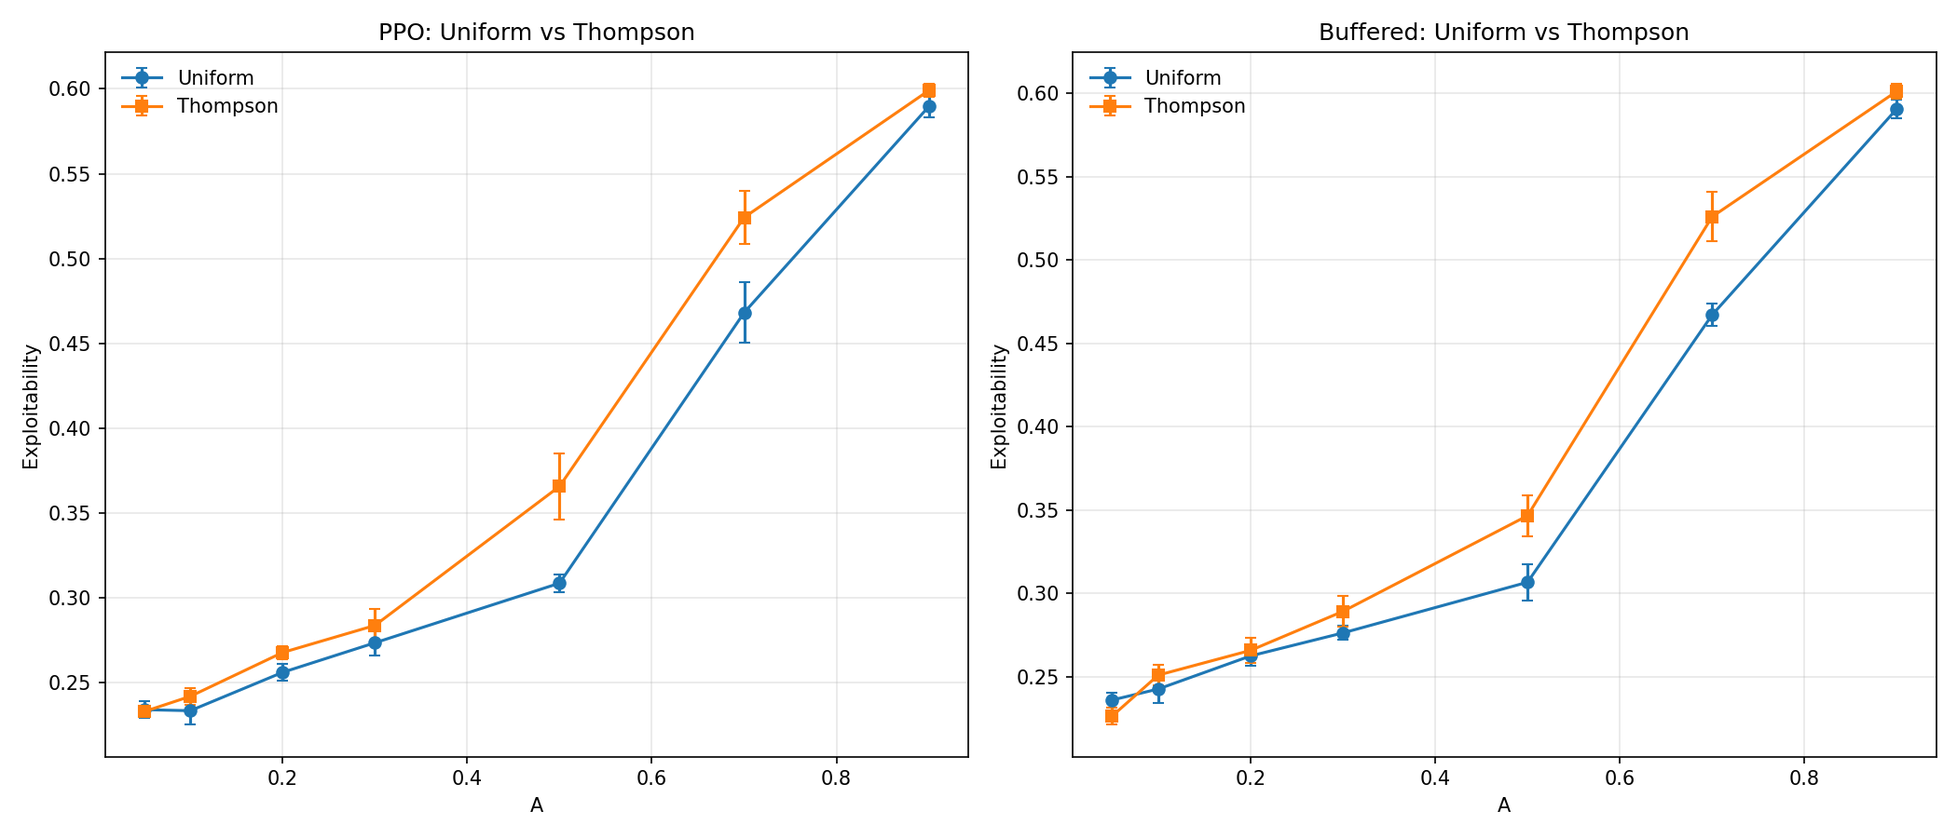
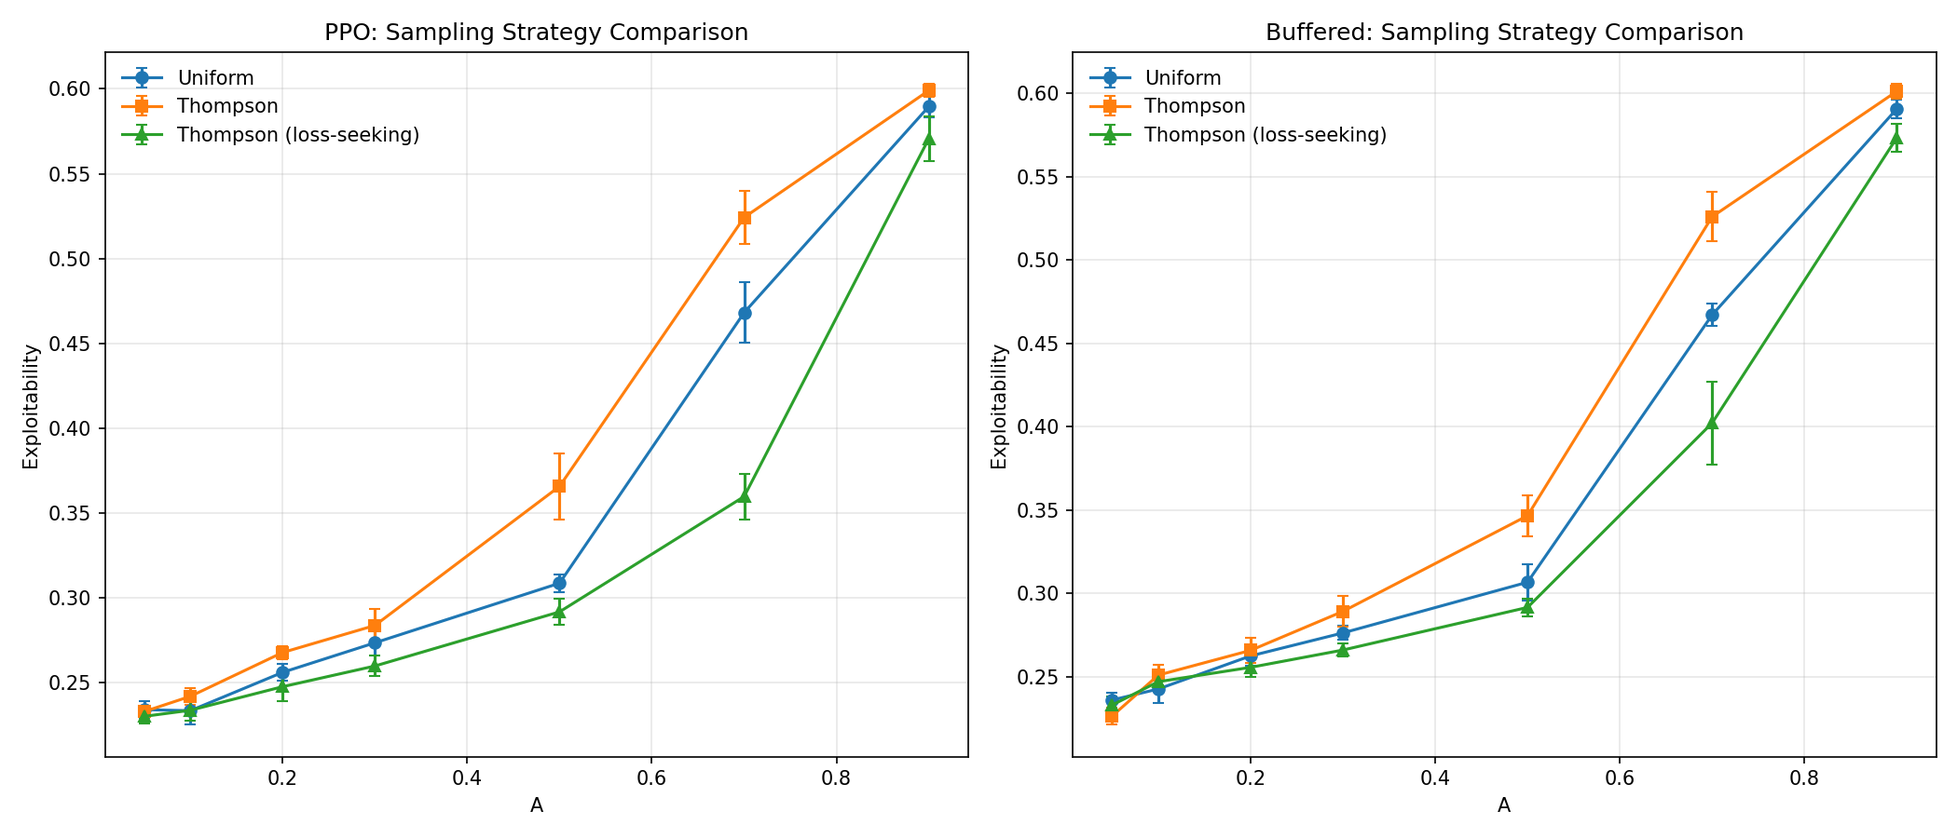
Add loss-seeking Thompson Sampling variant
Standard Thompson selects "competitive" opponents (close matches), which
is backwards in Kuhn Poker — it avoids the strong opponents that would
push toward Nash. Loss-seeking Thompson inverts the signal: success =
agent lost, so the zoo preferentially samples opponents that beat the
agent.

Results (500k games, 5 seeds): Thompson-Loss reduces exploitability by
up to 23% vs uniform at A=0.70 (PPO: 0.4682→0.3598), while standard
Thompson increases it by 12%. Still worse than self-play (A*=0 remains
optimal), but demonstrates that the selection signal matters.

diff --git a/analyze.py b/analyze.py
@@ -61,15 +61,14 @@ def get_final_exploitability(runs: dict) -> list:
 
 
 def parse_experiment_name(name: str):
-    """Parse algo, strategy, A value from experiment directory name."""
-    # Format: ppo_uniform_A0.50 or buffered_thompson_A0.90
-    parts = name.split("_")
-    if len(parts) >= 3:
-        algo = parts[0]
-        strategy = parts[1]
-        a_match = re.search(r"A([\d.]+)", name)
-        a_val = float(a_match.group(1)) if a_match else None
-        return algo, strategy, a_val
+    """Parse algo, strategy, A value from experiment directory name.
+
+    Format: {algo}_{strategy}_A{value}
+    e.g. ppo_uniform_A0.50, buffered_thompson_loss_A0.90
+    """
+    m = re.match(r"^(ppo|buffered)_(.+)_A([\d.]+)$", name)
+    if m:
+        return m.group(1), m.group(2), float(m.group(3))
     return None, None, None
 
 
@@ -114,13 +113,18 @@ def plot_a_curve(data: dict, output_dir: Path):
 
 
 def plot_thompson_comparison(data: dict, output_dir: Path):
-    """Plot uniform vs Thompson at each A value."""
+    """Plot uniform vs Thompson vs Thompson-Loss at each A value."""
     fig, axes = plt.subplots(1, 2, figsize=(14, 6))
+
+    strat_configs = [
+        ("uniform", "tab:blue", "o", "Uniform"),
+        ("thompson", "tab:orange", "s", "Thompson"),
+        ("thompson_loss", "tab:green", "^", "Thompson (loss-seeking)"),
+    ]
 
     for ax, algo, title in [(axes[0], "ppo", "PPO"),
                              (axes[1], "buffered", "Buffered")]:
-        for strat, color, marker in [("uniform", "tab:blue", "o"),
-                                      ("thompson", "tab:orange", "s")]:
+        for strat, color, marker, label in strat_configs:
             a_vals, means, stds = [], [], []
             for name, runs in sorted(data.items()):
                 a, s, a_val = parse_experiment_name(name)
@@ -132,11 +136,11 @@ def plot_thompson_comparison(data: dict, output_dir: Path):
                         stds.append(np.std(vals))
             if a_vals:
                 ax.errorbar(a_vals, means, yerr=stds, marker=marker,
-                           label=strat.capitalize(), color=color, capsize=3)
+                           label=label, color=color, capsize=3)
 
         ax.set_xlabel("A")
         ax.set_ylabel("Exploitability")
-        ax.set_title(f"{title}: Uniform vs Thompson")
+        ax.set_title(f"{title}: Sampling Strategy Comparison")
         ax.legend()
         ax.grid(True, alpha=0.3)
 
@@ -157,6 +161,7 @@ def plot_timeseries(data: dict, output_dir: Path):
         ("ppo_uniform_A0.50", "PPO A=0.50", "tab:green"),
         ("ppo_uniform_A0.90", "PPO A=0.90", "tab:red"),
         ("ppo_thompson_A0.50", "PPO Thompson A=0.50", "tab:orange"),
+        ("ppo_thompson_loss_A0.50", "PPO Thompson-Loss A=0.50", "tab:purple"),
     ]
 
     for name, label, color in targets:
@@ -278,39 +283,45 @@ def print_summary_tables(data: dict):
             if vals:
                 print(f"{a_val:>6.2f} | {np.mean(vals):>8.4f} +/- {np.std(vals):<8.4f} | {len(vals):>5d}")
 
-    # Thompson comparison
-    print("\nThompson vs Uniform (PPO):")
-    print(f"{'A':>6s} | {'Uniform':>20s} | {'Thompson':>20s} | {'Improvement':>12s}")
-    print("-" * 70)
+    # 3-way Thompson comparison (PPO)
+    print("\nSampling Strategy Comparison (PPO):")
+    print(f"{'A':>6s} | {'Uniform':>20s} | {'Thompson':>20s} | {'Thompson-Loss':>20s}")
+    print("-" * 80)
     for a_val in [0.05, 0.1, 0.2, 0.3, 0.5, 0.7, 0.9]:
         u_name = f"ppo_uniform_A{a_val:.2f}"
         t_name = f"ppo_thompson_A{a_val:.2f}"
-        if u_name in data and t_name in data:
-            u_vals = get_final_exploitability(data[u_name])
-            t_vals = get_final_exploitability(data[t_name])
-            if u_vals and t_vals:
-                u_mean = np.mean(u_vals)
-                t_mean = np.mean(t_vals)
-                imp = (u_mean - t_mean) / u_mean * 100 if u_mean > 0 else 0
-                print(f"{a_val:>6.2f} | {u_mean:>8.4f} +/- {np.std(u_vals):<8.4f} | "
-                      f"{t_mean:>8.4f} +/- {np.std(t_vals):<8.4f} | {imp:>10.1f}%")
+        tl_name = f"ppo_thompson_loss_A{a_val:.2f}"
+        parts = []
+        for name in [u_name, t_name, tl_name]:
+            if name in data:
+                vals = get_final_exploitability(data[name])
+                if vals:
+                    parts.append(f"{np.mean(vals):>8.4f} +/- {np.std(vals):<8.4f}")
+                else:
+                    parts.append("       N/A          ")
+            else:
+                parts.append("       N/A          ")
+        print(f"{a_val:>6.2f} | {parts[0]} | {parts[1]} | {parts[2]}")
 
-    # Thompson comparison (Buffered)
-    print("\nThompson vs Uniform (Buffered):")
-    print(f"{'A':>6s} | {'Uniform':>20s} | {'Thompson':>20s} | {'Improvement':>12s}")
-    print("-" * 70)
+    # 3-way Thompson comparison (Buffered)
+    print("\nSampling Strategy Comparison (Buffered):")
+    print(f"{'A':>6s} | {'Uniform':>20s} | {'Thompson':>20s} | {'Thompson-Loss':>20s}")
+    print("-" * 80)
     for a_val in [0.05, 0.1, 0.2, 0.3, 0.5, 0.7, 0.9]:
         u_name = f"buffered_uniform_A{a_val:.2f}"
         t_name = f"buffered_thompson_A{a_val:.2f}"
-        if u_name in data and t_name in data:
-            u_vals = get_final_exploitability(data[u_name])
-            t_vals = get_final_exploitability(data[t_name])
-            if u_vals and t_vals:
-                u_mean = np.mean(u_vals)
-                t_mean = np.mean(t_vals)
-                imp = (u_mean - t_mean) / u_mean * 100 if u_mean > 0 else 0
-                print(f"{a_val:>6.2f} | {u_mean:>8.4f} +/- {np.std(u_vals):<8.4f} | "
-                      f"{t_mean:>8.4f} +/- {np.std(t_vals):<8.4f} | {imp:>10.1f}%")
+        tl_name = f"buffered_thompson_loss_A{a_val:.2f}"
+        parts = []
+        for name in [u_name, t_name, tl_name]:
+            if name in data:
+                vals = get_final_exploitability(data[name])
+                if vals:
+                    parts.append(f"{np.mean(vals):>8.4f} +/- {np.std(vals):<8.4f}")
+                else:
+                    parts.append("       N/A          ")
+            else:
+                parts.append("       N/A          ")
+        print(f"{a_val:>6.2f} | {parts[0]} | {parts[1]} | {parts[2]}")
 
 
 def main():

diff --git a/zoo.py b/zoo.py
@@ -42,7 +42,7 @@ class OpponentZoo:
         if not self.checkpoints:
             raise ValueError("Zoo is empty")
 
-        if self.sampling_strategy == "thompson" and len(self.checkpoints) > 1:
+        if self.sampling_strategy in ("thompson", "thompson_loss") and len(self.checkpoints) > 1:
             thetas = [np.random.beta(a, b) for a, b in zip(self.alphas, self.betas)]
             idx = int(np.argmax(thetas))
         else:
@@ -54,13 +54,27 @@ class OpponentZoo:
         return agent, idx
 
     def update_outcome(self, idx: int, mean_reward: float):
-        """Update Beta posterior based on match competitiveness."""
+        """Update Beta posterior based on match outcome.
+
+        - "thompson": success = competitive match (|reward| < threshold).
+          Prefers opponents that produce close games.
+        - "thompson_loss": success = agent lost (reward < -threshold).
+          Prefers opponents that beat the agent, providing corrective signal.
+        """
         if idx < 0 or idx >= len(self.checkpoints):
             return
-        if abs(mean_reward) < self.competitiveness_threshold:
-            self.alphas[idx] += 1.0
+        if self.sampling_strategy == "thompson_loss":
+            # Loss-seeking: success when the agent LOSES to this opponent
+            if mean_reward < -self.competitiveness_threshold:
+                self.alphas[idx] += 1.0
+            else:
+                self.betas[idx] += 1.0
         else:
-            self.betas[idx] += 1.0
+            # Standard Thompson: success when match is competitive
+            if abs(mean_reward) < self.competitiveness_threshold:
+                self.alphas[idx] += 1.0
+            else:
+                self.betas[idx] += 1.0
 
     def ts_diagnostics(self) -> Dict[str, float]:
         if not self.alphas:

diff --git a/run_sweep.py b/run_sweep.py
@@ -23,8 +23,8 @@ def main():
     parser.add_argument("--seeds", type=int, default=10)
     parser.add_argument("--parallel", type=int, default=8)
     parser.add_argument("--a-values", type=str, default="0.05,0.1,0.2,0.3,0.5,0.7,0.9")
-    parser.add_argument("--sampling-strategy", type=str, default="both",
-                        choices=["uniform", "thompson", "both"])
+    parser.add_argument("--sampling-strategy", type=str, default="all",
+                        choices=["uniform", "thompson", "thompson_loss", "both", "all"])
     parser.add_argument("--algorithms", type=str, default="both",
                         choices=["ppo", "buffered", "both"])
     parser.add_argument("--include-selfplay", action="store_true", default=True)
@@ -34,7 +34,9 @@ def main():
     a_values = [float(x) for x in args.a_values.split(",")]
     seeds = list(range(args.seeds))
 
-    if args.sampling_strategy == "both":
+    if args.sampling_strategy == "all":
+        strategies = ["uniform", "thompson", "thompson_loss"]
+    elif args.sampling_strategy == "both":
         strategies = ["uniform", "thompson"]
     else:
         strategies = [args.sampling_strategy]

diff --git a/train_zoo_buffered.py b/train_zoo_buffered.py
@@ -147,7 +147,7 @@ def main():
     parser.add_argument("--output-dir", type=str, default="experiments/results/zoo_buffered")
     parser.add_argument("--seed", type=int, default=0)
     parser.add_argument("--sampling-strategy", type=str, default="uniform",
-                        choices=["uniform", "thompson"])
+                        choices=["uniform", "thompson", "thompson_loss"])
     parser.add_argument("--competitiveness-threshold", type=float, default=0.3)
     parser.add_argument("--a-schedule", type=str, default="constant",
                         choices=["constant", "exponential", "linear", "sigmoid",

diff --git a/train_zoo.py b/train_zoo.py
@@ -155,7 +155,7 @@ def main():
     parser.add_argument("--output-dir", type=str, default="experiments/results/zoo")
     parser.add_argument("--seed", type=int, default=0)
     parser.add_argument("--sampling-strategy", type=str, default="uniform",
-                        choices=["uniform", "thompson"])
+                        choices=["uniform", "thompson", "thompson_loss"])
     parser.add_argument("--competitiveness-threshold", type=float, default=0.3)
     parser.add_argument("--a-schedule", type=str, default="constant",
                         choices=["constant", "exponential", "linear", "sigmoid",

diff --git a/README.md b/README.md
@@ -2,7 +2,7 @@
 
 A-parameter hypothesis testbed using Kuhn Poker — a sequel to [RPS_RL](https://github.com/kilojoules/RPS_RL) that tests whether the same findings hold in a game with information asymmetry, sequential decisions, and non-trivial Nash equilibrium structure.
 
-**Key finding: every result from RPS reverses.** Zoo sampling hurts convergence, the replay buffer provides no advantage, and Thompson Sampling makes things worse. The reason: in Kuhn Poker, the best response to diverse/random opponents is an exploitative strategy, not Nash.
+**Key finding: every result from RPS reverses, but the fix reveals why.** Zoo sampling hurts convergence, the replay buffer provides no advantage, and standard Thompson Sampling makes things worse. However, a **loss-seeking Thompson** variant — which preferentially selects opponents that *beat* the agent — partially recovers the benefit, reducing exploitability by up to 23% vs uniform at high A. The root cause: in Kuhn Poker, the best response to diverse/random opponents is exploitative, not Nash.
 
 ## The A Parameter
 
@@ -46,7 +46,7 @@ Game value: −1/18 for Player 1. Exploitability at Nash = 0.
 
 ## Results
 
-We ran 145 experiments: 7 A values × 2 algorithms (PPO, Buffered) × 2 sampling strategies (Uniform, Thompson) × 5 seeds, plus 5 self-play baselines. All at 500k games with tabular policies (12 logit parameters per agent).
+We ran 215 experiments: 7 A values × 2 algorithms (PPO, Buffered) × 3 sampling strategies (Uniform, Thompson, Thompson-Loss) × 5 seeds, plus 5 self-play baselines. All at 500k games with tabular policies (12 logit parameters per agent).
 
 ### The A Curve Inverts
 
@@ -87,25 +87,55 @@ Unlike RPS where PPO's curve was steeper than Buffered's, the two algorithms pro
 
 **Why?** In RPS, the replay buffer's "memory" of past opponents provided diversity that PPO lacked. In Kuhn Poker, that same memory is counterproductive — it reinforces exploitative strategies learned against weak historical opponents. The buffer remembers the *wrong things*.
 
-### Thompson Sampling Hurts
+### Standard Thompson Sampling Hurts
 
-In RPS, Thompson Sampling improved exploitability by 30–69% at high A. In Kuhn Poker, Thompson **increases** exploitability by up to 18.5%:
+In RPS, Thompson Sampling improved exploitability by 30–69% at high A. In Kuhn Poker, standard Thompson **increases** exploitability by up to 18.5%.
+
+**Why standard Thompson fails:** Thompson selects "competitive" opponents — those producing close matches (`|mean_reward| < threshold`). In Kuhn Poker, an agent that has learned exploitative strategies (e.g., always betting with Queen) will have close matches against other exploitative agents in the zoo. Meanwhile, near-Nash opponents in the zoo would *crush* the exploitative agent (large `|mean_reward|`), so Thompson filters them OUT. Standard Thompson preferentially avoids exactly the opponents that would provide corrective signal toward Nash.
+
+### Loss-Seeking Thompson: The Fix
+
+We introduce **Thompson-Loss**, a variant where "success" is redefined as the agent *losing* (`mean_reward < -threshold`). This inverts the selection pressure: the zoo preferentially samples opponents that beat the agent — exactly the strong opponents that expose exploitative weaknesses and push toward Nash.
 
 ![Thompson comparison](experiments/results/thompson_comparison.png)
 
-**PPO — Uniform vs Thompson (500k games, 5 seeds):**
+**PPO — 3-Way Sampling Comparison (500k games, 5 seeds):**
 
-| A | Uniform | Thompson | Change |
-|---|---------|----------|--------|
-| 0.05 | 0.2342 | 0.2330 | −0.5% |
-| 0.10 | 0.2335 | 0.2420 | +3.6% |
-| 0.20 | 0.2561 | 0.2678 | +4.6% |
-| 0.30 | 0.2736 | 0.2838 | +3.7% |
-| 0.50 | 0.3087 | 0.3658 | **+18.5%** |
-| 0.70 | 0.4682 | 0.5242 | **+12.0%** |
-| 0.90 | 0.5896 | 0.5990 | +1.6% |
+| A | Uniform | Thompson | Thompson-Loss | Loss vs Uniform |
+|---|---------|----------|---------------|-----------------|
+| 0.05 | 0.2342 | 0.2330 | **0.2302** | −1.7% |
+| 0.10 | 0.2335 | 0.2420 | **0.2338** | +0.1% |
+| 0.20 | 0.2561 | 0.2678 | **0.2477** | −3.3% |
+| 0.30 | 0.2736 | 0.2838 | **0.2599** | −5.0% |
+| 0.50 | 0.3087 | 0.3658 | **0.2918** | **−5.5%** |
+| 0.70 | 0.4682 | 0.5242 | **0.3598** | **−23.1%** |
+| 0.90 | 0.5896 | 0.5990 | **0.5706** | −3.2% |
 
-**Why?** Thompson selects "competitive" opponents — those producing close matches. In Kuhn Poker, an agent that has learned exploitative strategies will have close matches against opponents near Nash (since both do reasonably well). Thompson then over-samples these near-Nash opponents, while under-sampling the weak opponents that the agent has learned to crush. This concentrates training on opponents that don't expose the agent's exploitative weaknesses.
+**Buffered — 3-Way Sampling Comparison (500k games, 5 seeds):**
+
+| A | Uniform | Thompson | Thompson-Loss | Loss vs Uniform |
+|---|---------|----------|---------------|-----------------|
+| 0.05 | 0.2360 | 0.2263 | **0.2330** | −1.3% |
+| 0.10 | 0.2426 | 0.2509 | **0.2470** | +1.8% |
+| 0.20 | 0.2625 | 0.2658 | **0.2556** | −2.6% |
+| 0.30 | 0.2763 | 0.2892 | **0.2660** | −3.7% |
+| 0.50 | 0.3067 | 0.3466 | **0.2916** | −4.9% |
+| 0.70 | 0.4671 | 0.5261 | **0.4023** | **−13.9%** |
+| 0.90 | 0.5908 | 0.6014 | **0.5734** | −2.9% |
+
+**Key observations:**
+1. **Thompson-Loss beats Uniform at every A value** (for PPO), and nearly every value for Buffered.
+2. **The effect is strongest at high A** (A=0.70): Thompson-Loss reduces exploitability by 23% vs Uniform and 31% vs standard Thompson.
+3. **The effect peaks at moderate-high A**, not at extremes. At A=0.90, the zoo is so dominant that even smart sampling can't overcome the sheer volume of weak opponents.
+4. **Still worse than self-play** (0.2268). Loss-seeking helps, but zoo sampling still hurts overall — the fundamental problem (weak opponents in the zoo) remains.
+
+### Why Loss-Seeking Works (and Why It's Not Enough)
+
+The loss-seeking variant fixes the *selection* problem: it preferentially trains against opponents that expose the agent's weaknesses, pushing the agent toward more robust strategies. At A=0.70, this reduces exploitability from 0.4682 (uniform) to 0.3598 — a 23% improvement.
+
+But loss-seeking doesn't fix the *distribution* problem: the zoo is still filled with weak historical checkpoints. Even with perfect selection, the available opponents are mostly from early training. At A=0.90, 90% of training games are against zoo opponents, so the agent simply doesn't get enough self-play iterations to converge.
+
+This explains the peak at A=0.70: there's enough zoo sampling for Thompson-Loss to have an effect (vs. A=0.05 where zoo is rarely used), but not so much that the agent drowns in weak-opponent data (vs. A=0.90).
 
 ### What the Agent Actually Learns
 
@@ -138,22 +168,40 @@ The reversal traces to a single structural difference between RPS and Kuhn Poker
 | Nash is best response to random? | **Yes** — uniform play is optimal against any opponent mix | **No** — best response to random is exploitative betting |
 | Zoo diversity helps? | Yes — diverse opponents = diverse gradients → Nash | No — diverse weak opponents → exploitative strategies |
 | Replay buffer helps? | Yes — "remembers" diverse past opponents | No — "remembers" rewards from exploiting weak opponents |
-| Thompson helps? | Yes — selects informative opponents | No — selects opponents that don't expose weaknesses |
+| Standard Thompson helps? | Yes — selects informative opponents | No — selects opponents that don't expose weaknesses |
+| Loss-seeking Thompson helps? | Untested (unnecessary — standard already works) | **Yes** — selects opponents that beat the agent, providing corrective signal |
 
 In game theory terms: RPS is a **symmetric** zero-sum game where the minimax strategy coincides with the maximin strategy against any opponent distribution. Kuhn Poker is an **asymmetric information** game where the optimal strategy depends critically on the opponent's skill level. Training against a distribution of weak opponents teaches exploitation, not equilibrium play.
+
+## The Thompson Sampling Inversion
+
+The three Thompson variants tell a coherent story about what "informative" means in different games:
+
+| Strategy | Selection criterion | Works in RPS? | Works in Kuhn? |
+|----------|-------------------|---------------|----------------|
+| **Uniform** | Random | Baseline | Baseline |
+| **Thompson (competitive)** | Prefer close matches | Yes — close matches = opponents near Nash | No — close matches = opponents agent already handles |
+| **Thompson (loss-seeking)** | Prefer agent losses | Untested | **Yes** — losses = opponents that expose weaknesses |
+
+In RPS, "competitive" and "informative" are synonymous because Nash is optimal against everything. In Kuhn Poker, they diverge: the most informative opponents are those that beat you, not those you play closely against.
+
+**Implication for zoo-based training in general:** The right Thompson signal depends on the game's structure. In games where Nash is unique and robust, competitiveness works. In games with exploitative equilibria, loss-seeking (or more generally, *worst-case*) sampling is needed.
 
 ## Implications for the A-Parameter Hypothesis
 
 **The A-parameter hypothesis — that memoryless algorithms need more zoo sampling — does not hold in Kuhn Poker.** Specifically:
 
-1. **A\* = 0 (self-play) for both algorithms.** The optimal zoo sampling ratio is zero. Any amount of zoo sampling hurts.
+1. **A\* = 0 (self-play) for both algorithms.** The optimal zoo sampling ratio is zero, regardless of sampling strategy. Even Thompson-Loss can't make zoo sampling beat pure self-play.
 2. **The replay buffer provides no advantage.** PPO and Buffered produce identical results at every A value, contradicting the hypothesis that "memory capacity" determines sensitivity to zoo sampling.
 3. **The benefit of zoo sampling is game-dependent.** It helps in games where Nash is robust to opponent distribution (like RPS) and hurts in games where Nash requires precise adaptation to the opponent (like poker).
-4. **Thompson Sampling's value depends on what "competitive" means.** In RPS, competitive matches signal informative opponents. In Kuhn Poker, competitive matches signal opponents the agent already handles well — the opposite of what you want for learning.
+4. **Thompson Sampling's value depends on what "informative" means.** Standard Thompson's competitiveness signal is backwards in Kuhn Poker. Loss-seeking Thompson partially fixes this, but the fundamental problem (weak zoo opponents) remains.
+5. **Smart sampling helps but doesn't solve the distribution problem.** Thompson-Loss improves over uniform by up to 23%, but still can't overcome a zoo filled with weak checkpoints. The zoo *content* matters more than the zoo *selection*.
 
 **What transfers from RPS to Kuhn Poker:** The qualitative insight that zoo diversity can be destabilizing (observed at high A in RPS's long-horizon experiments) is the *dominant* effect in Kuhn Poker, present at all timescales and all A values.
 
 **What doesn't transfer:** The specific finding that moderate zoo sampling accelerates convergence, that PPO benefits more than buffered agents, and that Thompson Sampling helps at high A.
+
+**What's new in Kuhn Poker:** Loss-seeking Thompson partially recovers zoo utility, suggesting that opponent selection research should focus on *what the agent needs to learn* rather than *what produces close games*.
 
 ## Quick Start
 
@@ -170,10 +218,10 @@ pixi run selfplay
 # Single zoo experiment
 python train_zoo.py -A 0.1 --timesteps 500000
 
-# Single buffered experiment
-python train_zoo_buffered.py -A 0.5 --timesteps 500000 --sampling-strategy thompson
+# Single buffered experiment with loss-seeking Thompson
+python train_zoo_buffered.py -A 0.5 --timesteps 500000 --sampling-strategy thompson_loss
 
-# Full sweep (145 experiments, ~50 min)
+# Full sweep (215 experiments, ~70 min)
 pixi run sweep
 
 # Analyze results
@@ -185,7 +233,7 @@ pixi run analyze
 - **Policy**: Tabular — 12 logit parameters (one per info set), mapped to action probabilities via softmax. No neural network approximation error.
 - **PPO**: On-policy, clipped surrogate, analytic gradients. Memoryless — only trains on current batch.
 - **Buffered**: Off-policy with FIFO replay buffer (10k transitions) and truncated importance weights. Provides "memory" of past experience.
-- **Zoo**: Stores up to 50 opponent checkpoints. Supports uniform and Thompson sampling.
+- **Zoo**: Stores up to 50 opponent checkpoints. Supports uniform, Thompson (competitive), and Thompson (loss-seeking) sampling.
 - **Exploitability**: Exact best-response computation over the full game tree. Verified against known Nash equilibria (exploitability = 0 at α=0 and α=1/3).
 
 ## Project Structure
